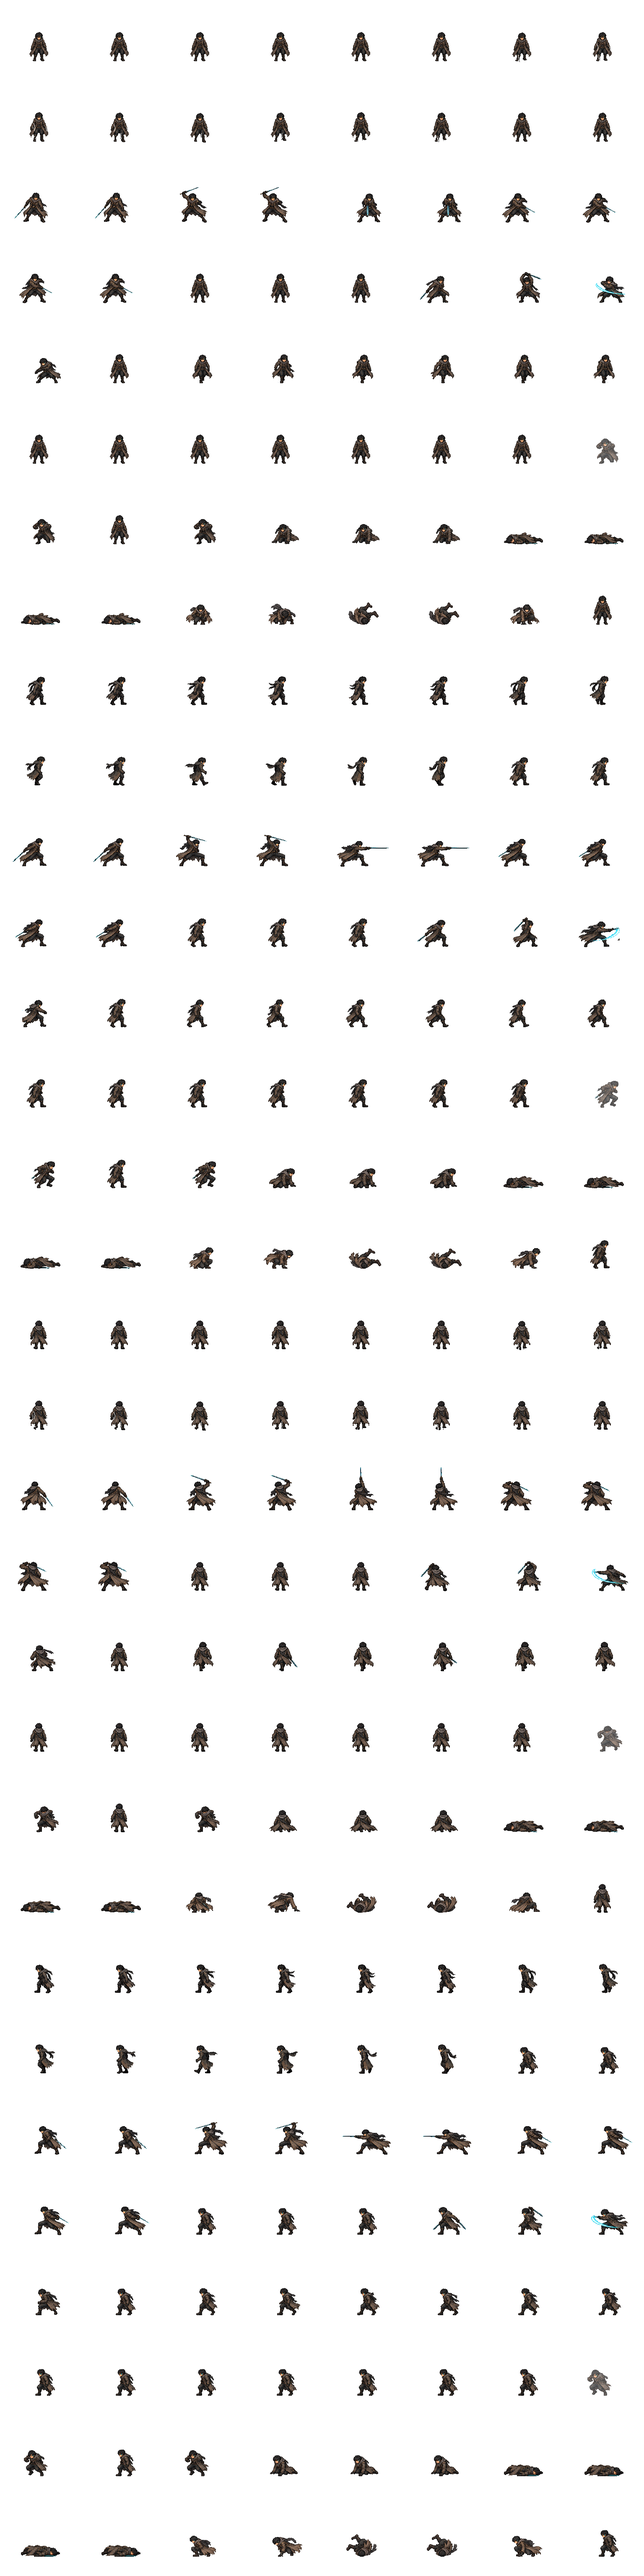
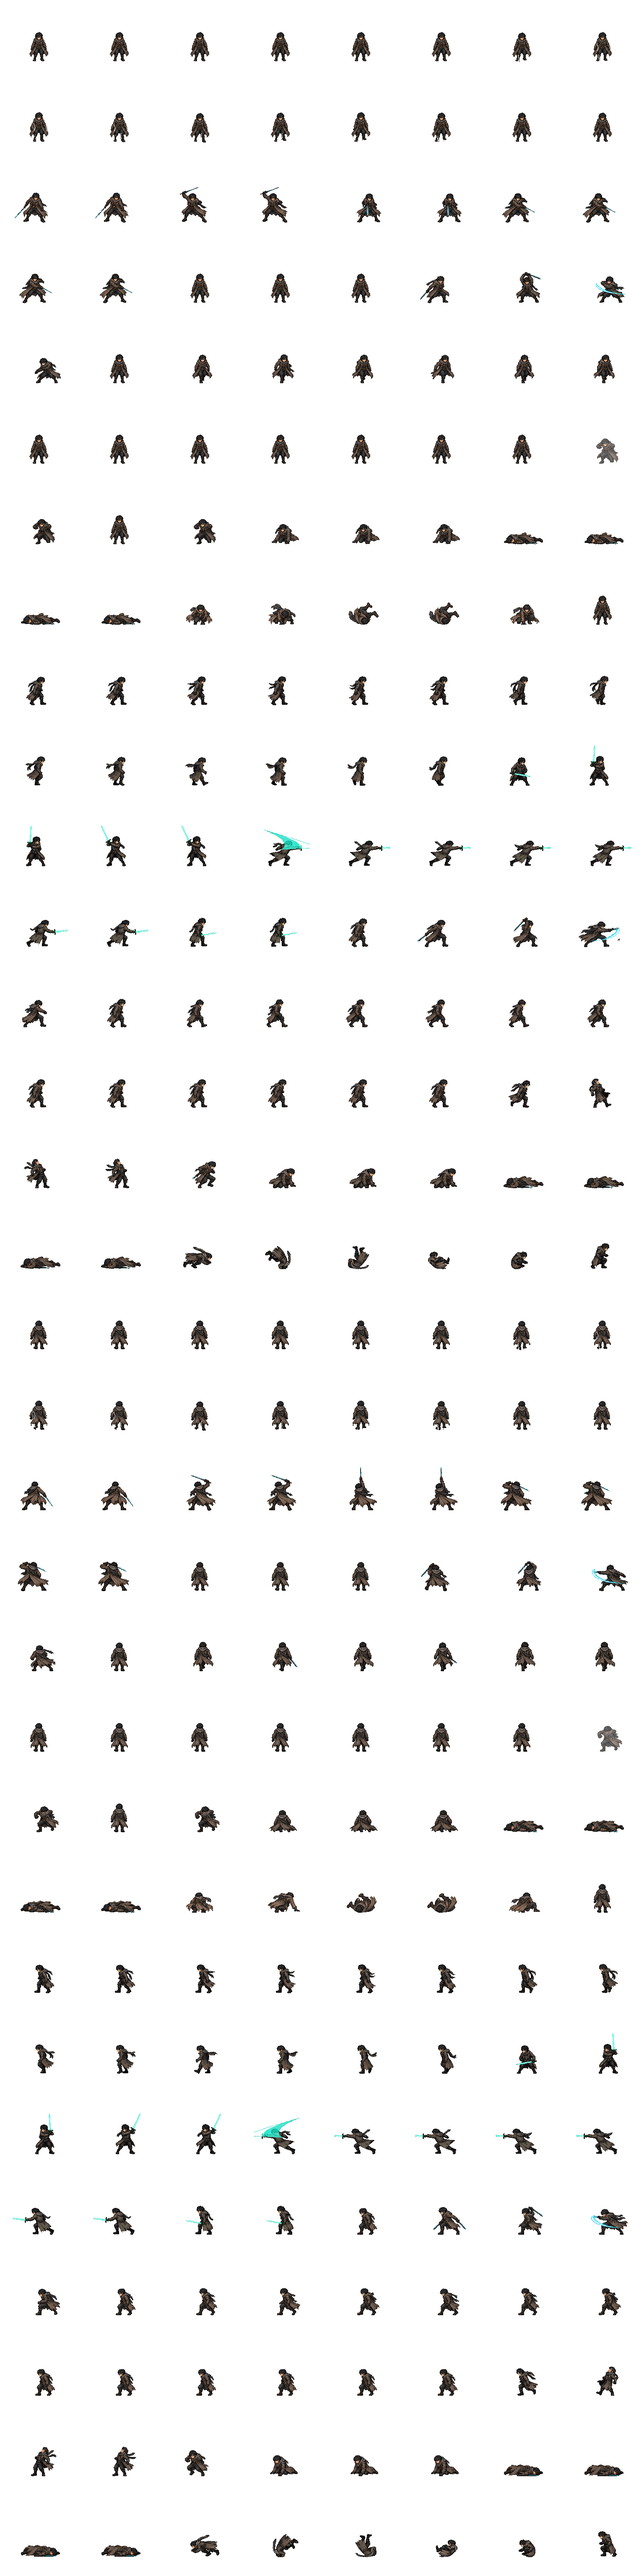
feat(arte): ataque, esquiva y daño del Portador cuadro por cuadro
Estocada con espada cian (preparación + golpe), voltereta centrada (el juego
ya desplaza al personaje) y retroceso al recibir daño sin destellos pintados.

diff --git a/tools/art/integrar_portador_pixellab.py b/tools/art/integrar_portador_pixellab.py
@@ -2,7 +2,7 @@
 
 Los cuadros de 132x132 en assets/characters/combat/sources/pixellab_portador/{idle,walk,run}
 (indice 0 = pose de referencia, 1..8 = generados) se pegan en las celdas de 192 px de
-portador.png para idle/walk este y oeste (espejado). Correr va a portador_correr.png
+portador.png para reposo, marcha, ataque, esquiva y daño este y oeste (espejado). Correr va a portador_correr.png
 (fila 0 = este, fila 1 = oeste). Uso: python tools/art/integrar_portador_pixellab.py
 """
 import json
@@ -13,26 +13,74 @@ ROOT = Path(__file__).resolve().parents[2]
 ART = ROOT / "assets/characters/combat"
 SRC = ART / "sources/pixellab_portador"
 CELL, OFFSET = 192, (30, 26)  # el recorte de 132 px se tomo en (30, 26) de la celda; ancla (96, 146)
-CLIPS = {"idle": [1, 2, 4, 5, 7, 8], "walk": [1, 2, 3, 4, 5, 6, 7, 8]}
+# clip del layout: (carpeta fuente, cuadros, centrar en x, quitar destellos rojos)
+CLIPS = {
+    "idle": ("idle", [1, 2, 4, 5, 7, 8], False, False),
+    "walk": ("walk", [1, 2, 3, 4, 5, 6, 7, 8], False, False),
+    "windup": ("attack", [1, 2, 2, 3, 3, 4], False, False),
+    "attack": ("attack", [5, 5, 6, 6, 7, 7, 8, 8], False, False),
+    # El juego ya desplaza al Portador al esquivar o recibir golpe: el cuerpo se queda centrado.
+    "dodge": ("dodge", [2, 3, 4, 5, 6, 8], True, False),
+    "hurt": ("hurt", [1, 2, 3, 4], True, True),
+}
+BODY_CENTRE_X = 57
 RUN = [2, 3, 4, 5, 6, 7, 8]
 
 
-def cell_image(path: Path, mirror: bool) -> Image.Image:
+def strip_effects(frame: Image.Image) -> Image.Image:
+    """Quita destellos rojos pintados por PixelLab y conserva solo la silueta conectada mas grande."""
+    w, h = frame.size
+    px = frame.load()
+    for y in range(h):
+        for x in range(w):
+            r, g, b, a = px[x, y]
+            if a and r > 50 and r > g * 1.8 and r > b * 1.8:
+                px[x, y] = (0, 0, 0, 0)
+    seen, best = set(), set()
+    for y in range(h):
+        for x in range(w):
+            if (x, y) in seen or px[x, y][3] < 40:
+                continue
+            group, stack = set(), [(x, y)]
+            seen.add((x, y))
+            while stack:
+                cx, cy = stack.pop()
+                group.add((cx, cy))
+                for nx, ny in ((cx + 1, cy), (cx - 1, cy), (cx, cy + 1), (cx, cy - 1)):
+                    if 0 <= nx < w and 0 <= ny < h and (nx, ny) not in seen and px[nx, ny][3] >= 40:
+                        seen.add((nx, ny))
+                        stack.append((nx, ny))
+            if len(group) > len(best):
+                best = group
+    for y in range(h):
+        for x in range(w):
+            if (x, y) not in best:
+                px[x, y] = (0, 0, 0, 0)
+    return frame
+
+
+def cell_image(path: Path, mirror: bool, centre: bool = False, strip_red: bool = False) -> Image.Image:
     frame = Image.open(path).convert("RGBA")
+    if strip_red:
+        frame = strip_effects(frame)
+    shift = 0
+    if centre:
+        box = frame.getchannel("A").point(lambda a: 255 if a > 127 else 0).getbbox()
+        shift = BODY_CENTRE_X - (box[0] + box[2]) // 2
     cell = Image.new("RGBA", (CELL, CELL))
-    cell.alpha_composite(frame, OFFSET)
+    cell.alpha_composite(frame, (OFFSET[0] + shift, OFFSET[1]))
     return cell.transpose(Image.FLIP_LEFT_RIGHT) if mirror else cell
 
 
 def main() -> None:
     layout = json.loads((ART / "layout.json").read_text(encoding="utf-8"))
     sheet = Image.open(ART / "portador.png").convert("RGBA")
-    for clip, picks in CLIPS.items():
+    for clip, (folder, picks, centre, strip_red) in CLIPS.items():
         for direction, mirror in (("east", False), ("west", True)):
             for slot, index in zip(layout["animations"][f"{clip}_{direction}"]["frames"], picks):
                 position = (slot % 8 * CELL, slot // 8 * CELL)
                 sheet.paste(Image.new("RGBA", (CELL, CELL)), position)
-                sheet.alpha_composite(cell_image(SRC / clip / f"{index}.png", mirror), position)
+                sheet.alpha_composite(cell_image(SRC / folder / f"{index}.png", mirror, centre, strip_red), position)
     sheet.save(ART / "portador.png")
     run = Image.new("RGBA", (CELL * 8, CELL * 2))
     for row, mirror in enumerate((False, True)):
